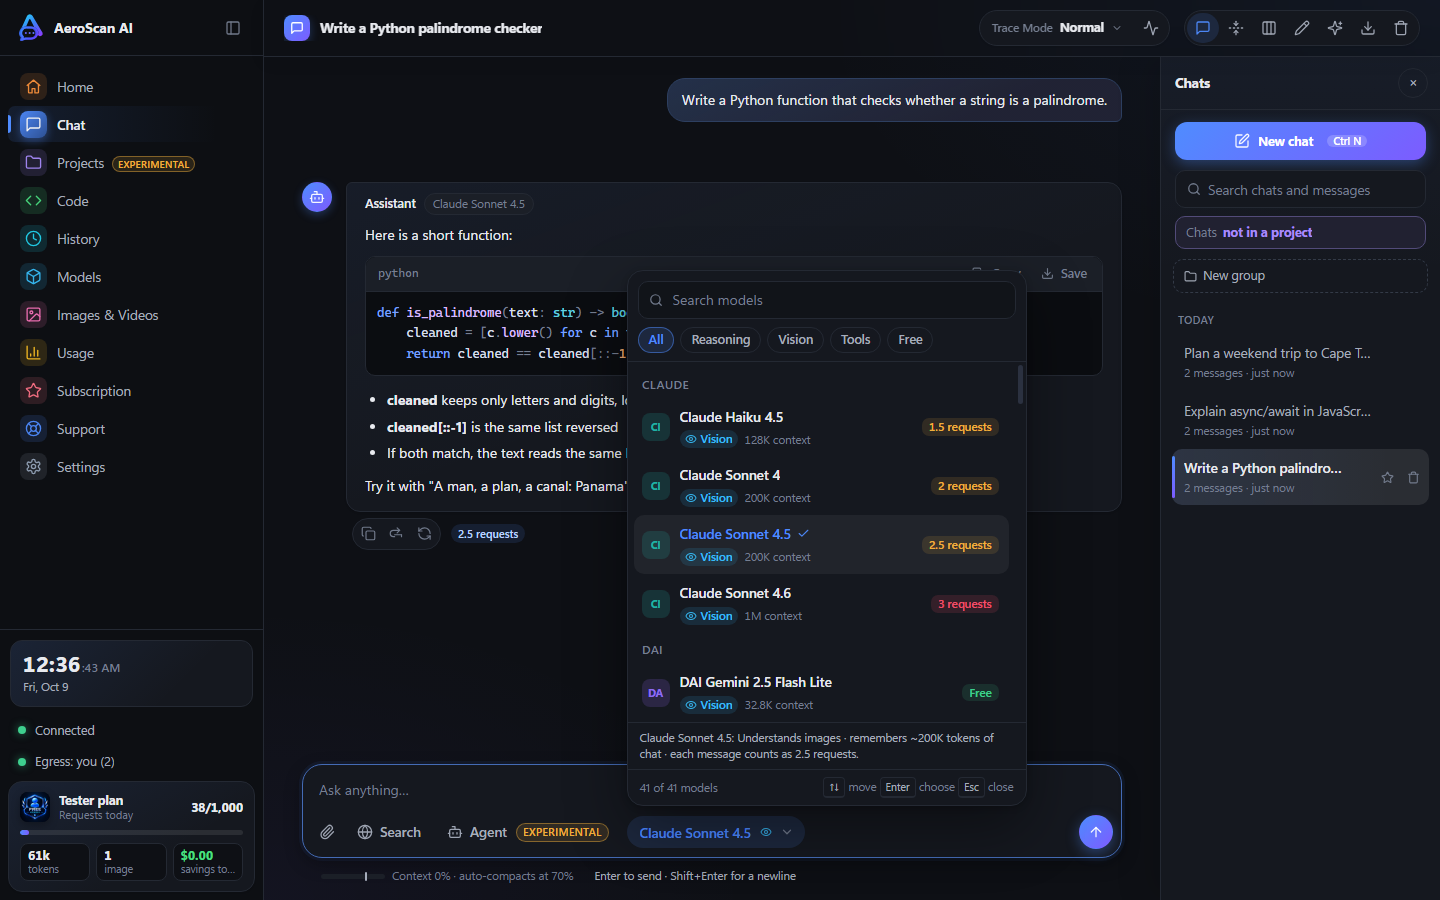
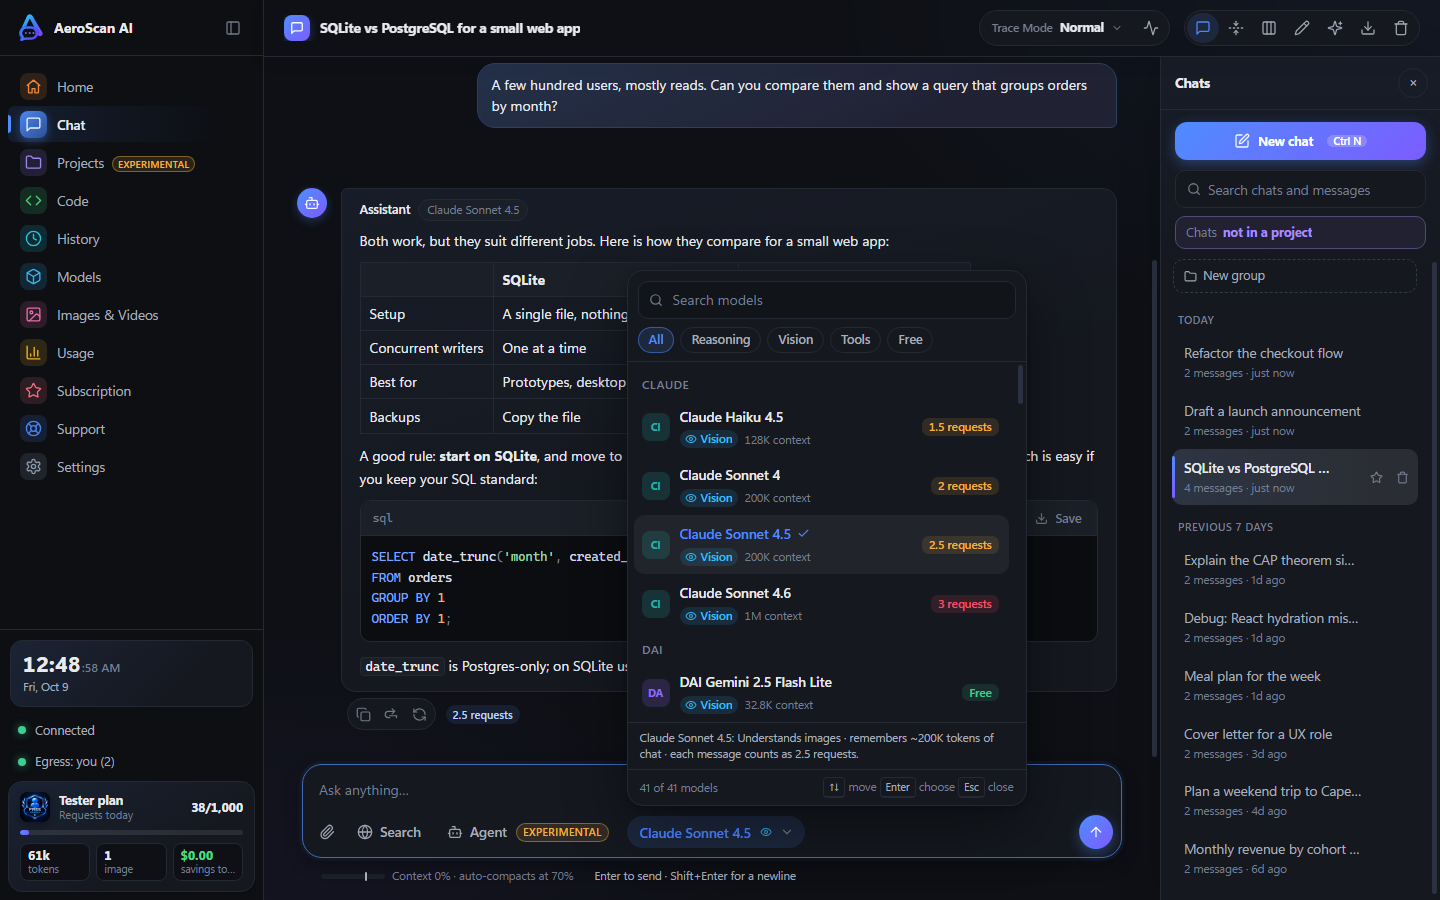
Update screenshots with a populated account

diff --git a/README.md b/README.md
@@ -22,11 +22,11 @@
 
 <img src="docs/02-agent-mode.png" alt="Agent mode working in a project folder" width="860">
 
-<sub>Agent mode works inside your project folder and asks before changing files.</sub>
+<sub>Agent mode works inside your project folder: it plans tasks, edits files, runs your tests, and lets you review or undo every change.</sub>
 
 <img src="docs/03-projects.png" alt="The Projects page with to-dos, notes and the agent" width="860">
 
-<sub>Projects keep to-dos, notes, chats and the agent together.</sub>
+<sub>Projects keep to-dos, milestones, notes, chats and the agent together.</sub>
 
 <sub><i>Screenshots use sample chat and project content. The model list and request costs are the real beta catalog.</i></sub>
 
